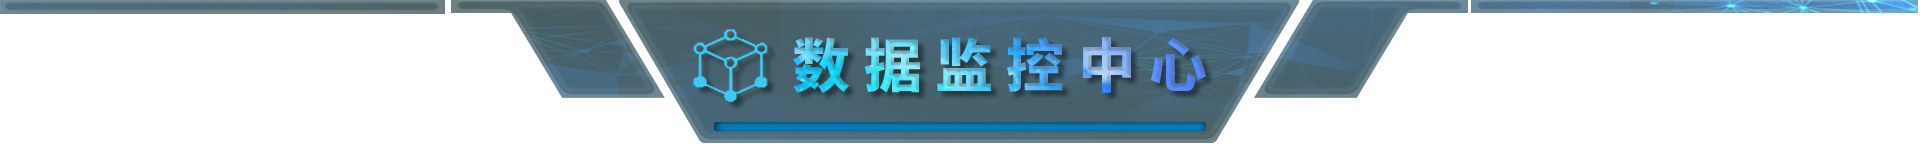
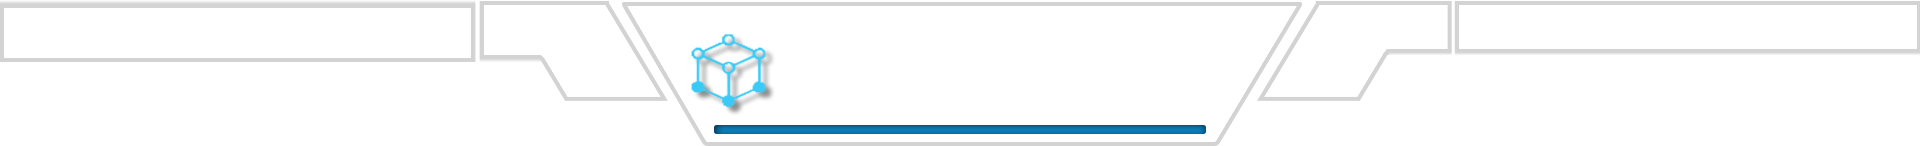
对webmonitor界面图片及标题背景等元素进行了修改

diff --git a/src/components/pieChart.vue b/src/components/pieChart.vue
@@ -58,7 +58,6 @@ function initContent(content){
 function initChart(option){
     if(option.data.length>0){
         vueObj[option.ref].noData = false;
-        
[1 lines of base64/hex data omitted]
         var piePatternImg1= new Image();
         piePatternImg1.src = piePatternSrc1;
@@ -81,7 +80,7 @@ function initChart(option){
             show: false
         },
         series:[{
-            radius:option.radius || ['30%', '60%'],
+            radius:option.radius || ['40%', '60%'],
             center: ['50%', '60%'],
             name: '',
             type:'pie',
@@ -90,25 +89,24 @@ function initChart(option){
             color: function(params) {
                 // build a color map as your need.
                 var colorList = [
-                    {image: piePatternImg1},
-                    '#35fce2','#FCCE10','#E87C25','#27727B',
-                    '#FE8463','#63cab1','#ff8e09','#fbe26b','#28ebfc',
-                    '#ffd776','#C6E579','#c9f401','#00ecfb',{image: piePatternImg1}
+                    {image: piePatternImg1},'#fe4200','#f79c5f','#E87C25','#27727B',
+                    '#f9b238','#63cab1','#ff8e09','#fbe26b','#fc28e1',
+                    '#ffd776','#C6E579','#f9b238','#e0fb00','#ff8e09','#fe6702',{image: piePatternImg1}
                     ];
                 return colorList[params.dataIndex]
                 },
             itemStyle: {
-                normal: {
-                    emphasis:{
-                        shadowOffsetX: 0,
-                        shadowOffsetY: 0,
-                        shadowBlur: 15,
-                        borderWidth: 3,
-                        borderColor: '#35f0fc',
-                        shadowColor: '#fed7b7'
-                            }
-                        }
-                    },
+                // normal: {
+                //     emphasis:{
+                //         shadowOffsetX: 0,
+                //         shadowOffsetY: 0,
+                //         shadowBlur: 15,
+                //         shadowColor: '#fed7b7'
+                //              }
+                //         },
+                        borderWidth: 1,
+                        borderColor: '#35f0fc'
+                       },
             // color:['#32A8FF',' #02C800'],
             // itemStyle: {
             //      normal: {

diff --git a/src/components/barChart.vue b/src/components/barChart.vue
@@ -61,6 +61,7 @@ function initChart(option){
     if(option.data.length>0){
         vueObj[option.ref].noData = false;
         var extendOption = {
+            height:'100px',
             backgroundColor: 'rgba(51,51,51,0)',
             title: { 
                 text: '' || option.title,
@@ -74,16 +75,36 @@ function initChart(option){
             tooltip: {},
             xAxis: {
                 type: 'category',
-                data: option.xAxis || []
+                data: option.xAxis || [],
+                splitLine:{show: false},//去除网格线
+                axisLine: {
+                    lineStyle: {
+                        type: 'solid',
+                        color: '#e98f48',//左边线的颜色
+                        width:'2'//坐标线的宽度
+                    }
+                }
             },
             yAxis: {
                 type: 'value',
                 minInterval:1,
+                splitLine:{
+                    lineStyle: {
+                        color: '#e98f48'
+                            }
+                        },//网格线颜色
+                axisLine: {
+                    lineStyle: {
+                        type: 'solid',
+                        color: '#e98f48',//左边线的颜色
+                        width:'2'//坐标线的宽度
+                    }
+                },
                 axisLabel : {
-                    margin:'0',
+                    margin:'7',
                     formatter:function(value){
-                        if(value >1000){
-                            value = value/1000 + ' K';
+                        if(value >=1000){
+                            value = value/1000 + ' K  ';
                         }
                         return value;
                     }
@@ -94,9 +115,13 @@ function initChart(option){
                     show: true,
                 }
             },
+            grid: {
+                x: '15%', //相当于距离左边效果:padding-left
+                y: '25%', //相当于距离上边效果:padding-top
+            },
             series: [{
                 type: 'bar',
-                center: ['20px','60%'],
+                center: [10,60],
                 barWidth: 10,
                 itemStyle: {
                     normal: {

diff --git a/src/components/Main.vue b/src/components/Main.vue
@@ -171,7 +171,6 @@
       })
     }
 
-
   function getInterfaceError(){
     interfaceError().then(function(res){
       var param = {
@@ -272,9 +271,9 @@
     flex-flow:row; /*伸缩项目单行排列*/
     align-items: center; /* 上下居中 */
     .stable {
-      width:399px; /*固定宽度*/
+      width:350px; /*固定宽度*/
       height: 680px;
-      padding-top: 50px;
+      padding-top: 70px;
       .arrange-v{
         height:30%;
         width: 300px;
@@ -282,7 +281,7 @@
         padding-top: 10px;
         color: #0eb3cf;
         background:rgba(40, 50, 50, 0.66);
-        box-shadow: 1px 1px 20px #0eb3cf;
+        box-shadow: 1px 1px 10px #d2f6fc;
       }
       ul {
         list-style: none;
@@ -329,7 +328,7 @@
       }
       .systemTitle{
         position: absolute;
-        width: 1440px;
+        width: 1490px;
         height: 90px;
         top: 3px;
         background-size: 100% 100%;
@@ -340,13 +339,12 @@
       }
       .jumpToDetail{
         position: absolute;
-        width: 44px;
-        height: 39px;
+        width: 24px;
+        height: 24px;
         background-size: 100%;
-        top: 3%;
-        left: 900px;
-        
-        right: 52px;
+        top: 0.8%;
+        left: 1040px;
+        // right: 52px;
         cursor: pointer;
       }
     }
